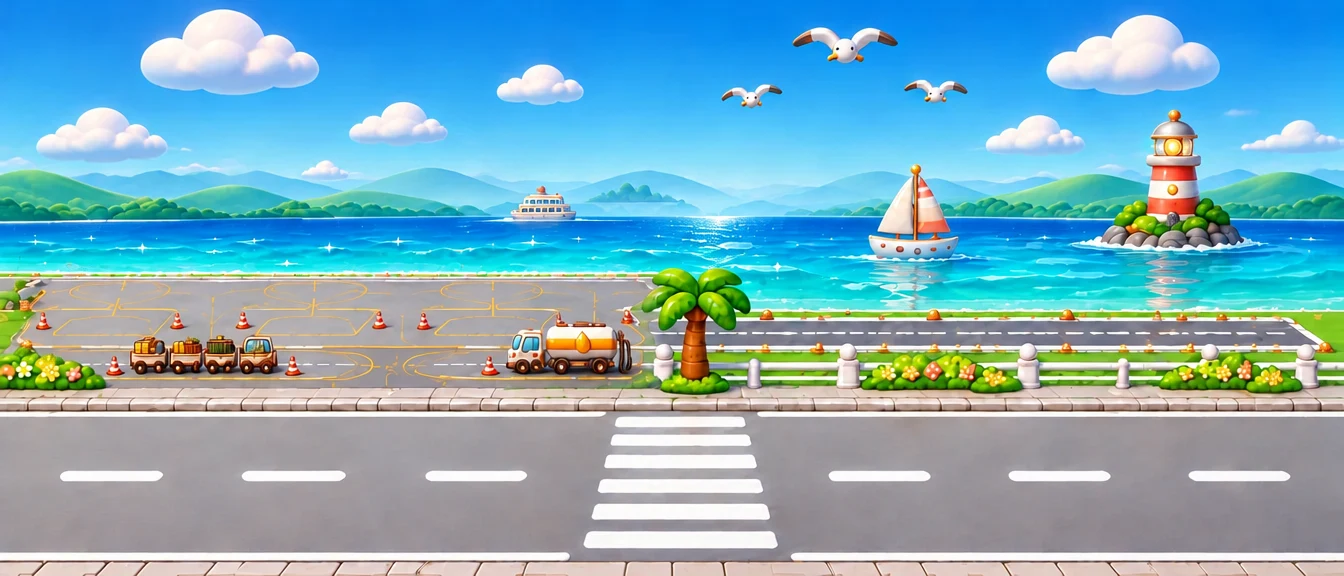
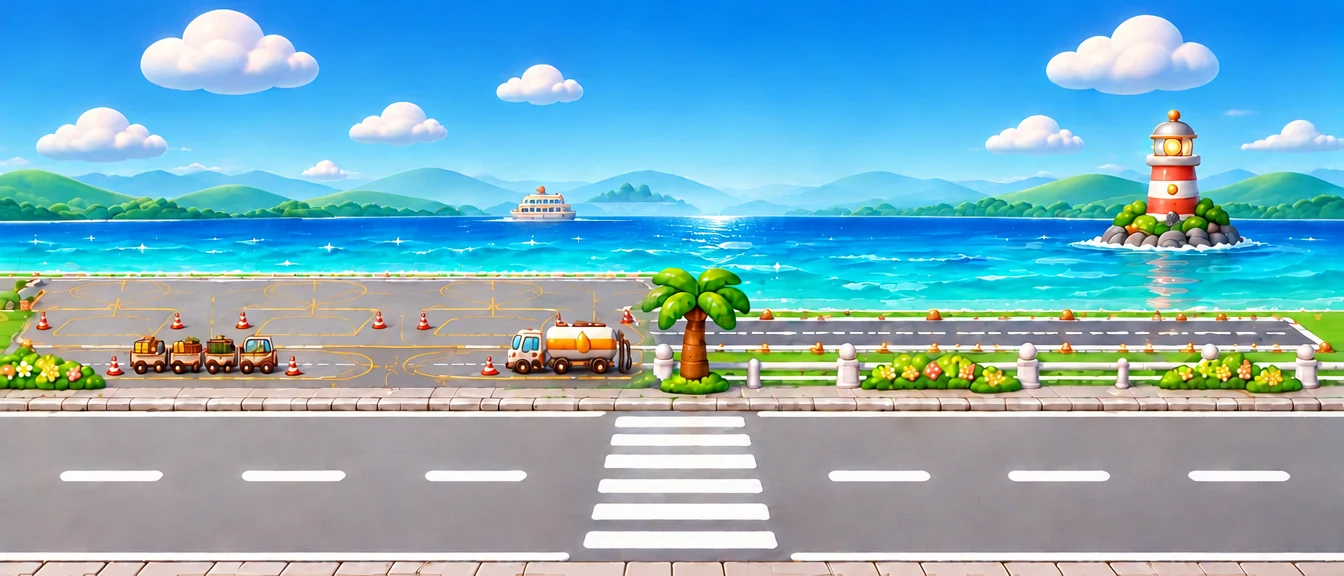
카피공항 예시판: 갈매기 제거, 돛단배 둥둥, 좌석에 앉은 캐릭터, 말하기·A·B 버튼(A로 입장·구매·탑승), 탑승 뒤 활주로 이륙 → 하늘 비행 3분
Claude-Session: https://claude.ai/code/session_015t7mweLLBzEFYGgsGmysr6

diff --git a/js/airport.js b/js/airport.js
@@ -37,9 +37,9 @@ export function openAirport(o) {
   const outPlane = h('img', { class: 'ap-plane out', src: 'img/air/plane.webp?v=3', alt: '' });
   const parked = [0.035, 0.105].map(x => h('img', { class: 'ap-parked', src: 'img/air/plane.webp?v=3', alt: '', style: { left: W * x + 'px' } })); // 터미널 왼쪽 계류장: 두 대가 나란히
   const term = h('button', { class: 'ap-term', 'aria-label': '카피공항 들어가기', style: { left: TX + 'px', width: TWD + 'px' }, onClick: () => walkTo(doorX, goIn) }, h('img', { src: 'img/air/terminal.webp', alt: '' }), h('b', { class: 'ap-term-t' }, '카피공항'));
-  const front = h('img', { class: 'ap-front', src: 'img/air/front.webp', alt: '' }); // 활주로 앞 야자수·난간: 비행기보다 앞에 보이게
+  const front = h('img', { class: 'ap-front', src: 'img/air/front.webp?v=4', alt: '' }); // 활주로 앞 야자수·난간: 비행기보다 앞에 보이게
   const exitSign = h('button', { class: 'fm-exit', style: { left: W - Math.round(W * 0.13) + 'px' }, onClick: () => close() }, '놀이터로 →');
-  const outWorld = h('div', { class: 'fm-world ap-world', style: { width: W + 'px', height: H + 'px', backgroundImage: 'url(img/air/out.webp)' } }, h('div', { class: 'ap-runway' }, outPlane), ...parked, front, term, exitSign);
+  const outWorld = h('div', { class: 'fm-world ap-world', style: { width: W + 'px', height: H + 'px', backgroundImage: 'url(img/air/out.webp?v=4)' } }, h('div', { class: 'ap-runway' }, outPlane), h('img', { class: 'ap-boat', src: 'img/air/boat.webp?v=2', alt: '' }), ...parked, front, term, exitSign);
   // 안쪽
   const counter = h('button', { class: 'ap-counter', 'aria-label': '공항 카운터', onClick: () => walkTo(W * 0.13, openTicket) });
   const inAtt = h('img', { class: 'ap-crew in tap', src: 'img/air/att.webp', alt: '카피승무원', style: { left: W * 0.115 + 'px' }, onClick: () => walkTo(W * 0.13, openTicket) }), inPilot = h('img', { class: 'ap-crew in pl', src: 'img/air/pilot.webp', alt: '카피기장', style: { left: W * 0.392 + 'px' } }); // 기장: 카운터 옆 출입구(탑승구) 바로 곁
@@ -54,7 +54,11 @@ export function openAirport(o) {
   const enterBtn = h('button', { class: 'fm-enter', hidden: true, onClick: () => (!inside ? goIn() : atGate() ? board() : openTicket()) });
   const ud = { hidden: true }; // (예전 위아래 버튼 자리)
   const dpad = h('div', { class: 'dpad ap-dpad' }, [['U', '▲'], ['L', '◀'], ['D', '▼'], ['R', '▶']].map(([k, t]) => { const b = h('button', { class: 'dp ap-dp ap-' + k, 'aria-label': { L: '왼쪽', R: '오른쪽', U: '위', D: '아래' }[k] }, t); holdBtn(b, () => { keys.add(k); b.classList.add('held'); }, () => { keys.delete(k); b.classList.remove('held'); }); return b; })); // 동물친목회와 같은 십자 방향키
-  const scene = h('div', { class: 'fm-scene' }, scroller, h('div', { class: 'fm-pad ap-pad' }, dpad, enterBtn));
+  // 오른쪽 버튼: 놀이터와 같은 말하기·A·B. A = 지금 할 수 있는 일(입장·구매·탑승), B = 나가기
+  const aLab = h('small', null, '입장'), aBtn = h('button', { class: 'ap-ab ap-a', disabled: true, 'aria-label': 'A', onClick: () => { sfx('keyA'); enterBtn.click(); } }, aLab);
+  const bBtn = h('button', { class: 'ap-ab ap-b', 'aria-label': 'B', onClick: () => { sfx('keyB'); inside ? goOut() : close(); } }, h('small', null, '나가기'));
+  const chatBtn = h('button', { class: 'ap-chat', 'aria-label': '말하기', onClick: () => { sfx('keyC'); if (inside) { const f = flightNow(now(), F); say('cnt', f); say('pl', f); say('wk', f); } else toast('바닷바람이 시원해요 🌊', 1200); } });
+  const scene = h('div', { class: 'fm-scene' }, scroller, h('div', { class: 'fm-pad ap-pad' }, dpad, h('div', { class: 'ap-acts' }, chatBtn, bBtn, aBtn)));
   const title = h('b', null, '✈ 카피공항'), flightEl = h('span', { class: 'ap-flight' });
   const wrap = h('div', { class: 'fm ap' }, h('div', { class: 'fm-top' }, title, flightEl, h('button', { class: 'top-x', 'aria-label': '닫기', onClick: () => close() }, '✕')), scene);
   document.body.append(wrap);
@@ -98,9 +102,17 @@ export function openAirport(o) {
     for (const k in says) { if (sayT[k] > 0 && (sayT[k] -= dt) <= 0) says[k].hidden = true; if (!says[k].hidden) { const e = npc[k]; says[k].style.left = e.style.left; says[k].style.bottom = `calc(${getComputedStyle(e).bottom} + ${e.offsetHeight * (k === 'wk' ? 1 - wk.y * 0.12 : 1) + 4}px)`; } } }
   // 탑승: 바닷가 활주로 시작점에 선 비행기에 내 카피바라가 앉아 → 쪽을 본다
   function ride() { const cap = h('div', { class: 'ap-ride-me', html: capy(ctx.capyOf(ctx.uid, { face: 'happy' })) });
-    const el = h('div', { class: 'ap-ride' }, h('div', { class: 'ap-ride-rig' }, cap, h('img', { class: 'ap-ride-pl', src: 'img/air/plane.webp?v=3', alt: '' }), h('img', { class: 'ap-ride-hull', src: 'img/air/plane-hull.webp?v=3', alt: '' })),
-      h('div', { class: 'ap-ride-t' }, h('b', null, `✈ ${DEST}행 탑승 완료!`), h('small', null, `${DEST}는 지금 한창 공사 중이에요 🚧 · 곧 날아갈 수 있어요`), h('button', { class: 'btn primary', onClick: () => { sfx('pop'); el.remove(); } }, '내리기')));
-    wrap.append(el); }
+    const rig = h('div', { class: 'ap-ride-rig go' }, h('img', { class: 'ap-ride-pl', src: 'img/air/plane.webp?v=3', alt: '' }), cap, h('img', { class: 'ap-ride-hull', src: 'img/air/plane-hull.webp?v=3', alt: '' }));
+    const msg = h('b'), sub = h('small'), offBtn = h('button', { class: 'btn sm', onClick: () => end() }, demo ? '내리기 (예시판)' : '내리기'), box = h('div', { class: 'ap-ride-t' }, msg, sub, demo && offBtn);
+    const sky = h('div', { class: 'ap-sky', hidden: true }, ...Array.from({ length: 9 }, (_, i) => h('i', { class: 'ap-cloud', style: { top: 6 + i * 10 + (i % 3) * 3 + '%', width: 70 + (i * 37) % 90 + 'px', animationDuration: 1.1 + (i * 0.37) % 1.4 + 's', animationDelay: -(i * 0.53) + 's', opacity: 0.55 + (i % 4) * 0.12 } })));
+    const el = h('div', { class: 'ap-ride' }, sky, rig, box); let timer = 0, t0 = 0; const FLY = 180000;
+    const end = () => { clearInterval(timer); el.remove(); };
+    msg.textContent = `✈ ${DEST}행 출발!`; sub.textContent = '활주로를 달려요…'; wrap.append(el); sfx('pop');
+    // 1) 활주로를 달리다 떠올라 화면 밖으로 → 2) 하늘: 위아래로 흔들리며 구름이 빠르게 스친다(3분)
+    setTimeout(() => { if (!el.isConnected) return; el.classList.add('fly'); sky.hidden = false; rig.classList.remove('go'); rig.classList.add('air'); t0 = Date.now();
+      const tick = () => { const left = FLY - (Date.now() - t0); if (left <= 0) { clearInterval(timer); msg.textContent = `🛬 ${DEST} 공항이 보여요!`; sub.textContent = `${DEST} 공항은 지금 공사 중이에요 🚧 · 곧 내릴 수 있어요`; if (!offBtn.isConnected) box.append(offBtn); offBtn.textContent = '카피공항으로 돌아가기'; return; }
+        msg.textContent = `✈ ${DEST}로 가는 중`; sub.textContent = `도착까지 ${mmss(left)}`; };
+      tick(); timer = setInterval(tick, 500); }, 6200); }
   let lastT = performance.now(), tick = 0;
   // 바깥 비행기(25초마다): 4초 동안 내려앉고 → 10초 동안 왼쪽으로 천천히 굴러 터미널 뒤로 들어가고 → 3초 뒤 → 8초 동안 터미널 뒤에서 나와 오른쪽(→)으로 달려 떠오른다
   function drawOut(t) { const k = t % 25000, el = outPlane; let x, y = 0, r = 0, flip = 0;
@@ -121,7 +133,7 @@ export function openAirport(o) {
     meEl.style.left = me.x + 'px'; meEl.style.bottom = `${1 + me.y * (inside ? 22 : 16)}%`; meEl.style.transform = `translateX(-50%) scale(${(1 - me.y * 0.14).toFixed(3)})`; meEl.style.zIndex = String(6 - Math.round(me.y * 3)); // 도로·실내 모두 위아래로도 걷는다
     const want = me.x - scroller.clientWidth / 2; if (Math.abs(scroller.scrollLeft - want) > 4 && (meEl.classList.contains('walk') || dir)) scroller.scrollLeft += (want - scroller.scrollLeft) * Math.min(1, dt * 6);
     const gate = atGate(), near = inside ? me.x < W * 0.24 || gate : Math.abs(me.x - doorX) < TWD * 0.55, lab = !inside ? '✈ 공항 들어가기' : gate ? '✈ 탑승하기' : '🎫 탑승권 사기';
-    if (enterBtn.hidden === near) enterBtn.hidden = !near; if (enterBtn.textContent !== lab) enterBtn.textContent = lab;
+    if (enterBtn.hidden === near) enterBtn.hidden = !near; if (enterBtn.textContent !== lab) enterBtn.textContent = lab; if (aBtn.disabled === near) { aBtn.disabled = !near; aBtn.classList.toggle('ready', near); } { const t = !inside ? '입장' : gate ? '탑승' : '탑승권'; if (aLab.textContent !== t) aLab.textContent = t; }
     const f = flightNow(now(), F); if (inside) drawPlane(inPlane, f, 0.2); else drawOut(now()); // 바깥: 내려앉아 터미널 뒤로 들어갔다가, 3초 뒤 다시 나와 오른쪽으로 떠나기를 되풀이
     if (inside) { if (wk.wait > 0) { wk.wait -= dt; walker.classList.remove('go'); if (wk.wait <= 0) { wk.tx = W * (0.07 + Math.random() * 0.87); wk.ty = Math.random(); } }
       else { const dx = wk.tx - wk.x, dy = wk.ty - wk.y, d = Math.hypot(dx, dy * 60); if (d < 3) wk.wait = 1 + Math.random() * 2.5; else { wk.x += dx / d * 42 * dt; wk.y += dy * 60 / d * 42 * dt / 60; if (Math.abs(dx) > 2) wk.d = Math.sign(dx); walker.classList.add('go'); } }

diff --git a/css/app.css b/css/app.css
@@ -3176,7 +3176,7 @@ img.kb-sic { width: 30px; height: 30px; object-fit: contain; display: block; mar
 .ap-ud { display: flex; flex-direction: column; gap: 4px; } .ap-ud[hidden] { display: none; }
 .fm-dp.ap-v { width: 46px; height: 40px; min-width: 0; font-size: 16px; padding: 0; }
 
-.ap-pad { align-items: center; justify-content: flex-start; gap: 18px; }
+.ap-pad { align-items: center; justify-content: space-between; gap: 8px; }
 .ap-dpad { width: 132px; height: 132px; gap: 0; display: grid; grid-template: "a U b" 1fr "L c R" 1fr "d D e" 1fr / 1fr 1fr 1fr; background: url(../img/fl/ui/dpad.webp) center / contain no-repeat; filter: drop-shadow(0 4px 3px rgba(110, 60, 20, .35)); opacity: 1; flex: none; }
 .ap-dpad .ap-dp { width: auto; height: auto; background: none; border: 0; box-shadow: none; border-radius: 12px; font-size: 0; padding: 0; }
 .ap-dpad .ap-U { grid-area: U; } .ap-dpad .ap-L { grid-area: L; } .ap-dpad .ap-R { grid-area: R; } .ap-dpad .ap-D { grid-area: D; }
@@ -3185,9 +3185,26 @@ img.kb-sic { width: 30px; height: 30px; object-fit: contain; display: block; mar
 .ap-say { position: absolute; z-index: 8; transform: translateX(-50%); background: #fffdf5; color: #5a3a1e; border: 2px solid #e0b252; border-radius: 12px; padding: 3px 8px; font: 800 11px/1.3 var(--head); white-space: nowrap; box-shadow: 0 2px 6px rgba(0,0,0,.2); pointer-events: none; }
 .ap-say[hidden] { display: none; } .ap-say.pop { animation: parkBub .3s ease-out; }
 .ap-say::after { content: ''; position: absolute; left: 50%; bottom: -7px; margin-left: -5px; border: 5px solid transparent; border-top: 6px solid #e0b252; border-bottom: 0; }
-.ap-ride { position: absolute; inset: 0; z-index: 50; background: #7fd0f0 url(../img/air/ride.webp) center / cover no-repeat; display: flex; flex-direction: column; align-items: center; justify-content: flex-end; overflow: hidden; animation: aqIn .5s ease-out; }
-.ap-ride-rig { position: absolute; left: 50%; top: 73%; width: min(78%, 420px); transform: translate(-50%, -100%); animation: apIdle 1.1s ease-in-out infinite; } @keyframes apIdle { 50% { translate: 0 -2px; } }
+.ap-ride { position: absolute; inset: 0; z-index: 50; background: #7fd0f0 url(../img/air/out.webp?v=4) 82% 50% / cover no-repeat; overflow: hidden; animation: aqIn .4s ease-out; }
+.ap-ride.fly { background: linear-gradient(#2f8fe0, #7cc8f5 55%, #cfeeff); }
+.ap-ride-rig { position: absolute; left: 0; top: 58.5%; width: min(60%, 300px); transform: translate(-50%, -100%); }
+.ap-ride-rig.go { animation: apRun 6.2s cubic-bezier(.45, 0, .9, .6) forwards; }
+@keyframes apRun { 0% { left: 18%; top: 58.5%; rotate: 0deg; } 8% { left: 18%; top: 58.5%; } 62% { left: 68%; top: 58.5%; rotate: 0deg; } 100% { left: 150%; top: 12%; rotate: -14deg; } }
+.ap-ride-rig.air { left: 50%; top: 56%; width: min(72%, 380px); animation: apAir 2.2s ease-in-out infinite; }
+@keyframes apAir { 0%, 100% { translate: 0 -14px; rotate: -3deg; } 50% { translate: 0 14px; rotate: 2deg; } }
 .ap-ride-pl, .ap-ride-hull { display: block; width: 100%; transform: scaleX(-1); } .ap-ride-hull { position: absolute; left: 0; top: 0; }
-.ap-ride-me { position: absolute; left: 47%; top: -9%; width: 30%; transform: translateX(-50%); } .ap-ride-me svg { width: 100%; display: block; transform: scaleX(-1); }
-.ap-ride-t { position: relative; margin: 0 12px 14px; padding: 10px 14px; border-radius: 16px; background: rgba(255, 250, 240, .94); border: 2px solid #9CC6EE; text-align: center; display: flex; flex-direction: column; gap: 6px; align-items: center; }
+.ap-ride-me { position: absolute; left: 47.5%; top: -3%; width: 27%; transform: translateX(-50%); } .ap-ride-me svg { width: 100%; display: block; transform: scaleX(-1); }
+.ap-sky { position: absolute; inset: 0; } .ap-sky[hidden] { display: none; }
+.ap-cloud { position: absolute; left: 0; height: 26px; border-radius: 30px; background: #fff; box-shadow: 18px -10px 0 2px #fff, 44px -4px 0 -2px #fff; filter: blur(.5px); animation: apCloud 1.4s linear infinite; }
+@keyframes apCloud { from { transform: translateX(110vw); } to { transform: translateX(-260px); } }
+.ap-ride-t { position: absolute; left: 12px; right: 12px; bottom: 14px; padding: 10px 14px; border-radius: 16px; background: rgba(255, 250, 240, .94); border: 2px solid #9CC6EE; text-align: center; display: flex; flex-direction: column; gap: 6px; align-items: center; }
 .ap-ride-t b { font: 900 16px/1.2 var(--head); color: #2F6FA8; } .ap-ride-t small { font-size: 12px; color: #6a7f95; }
+
+.ap-acts { position: relative; display: flex; flex-direction: row; gap: 2px; align-items: flex-end; margin-right: 4px; }
+.ap-ab { position: relative; width: 74px; height: 74px; border-radius: 50%; border: 0; padding: 0; background: url(../img/fl/ui/btn-b.webp) center / contain no-repeat; filter: drop-shadow(0 4px 3px rgba(60, 60, 20, .35)); }
+.ap-ab.ap-a { background-image: url(../img/fl/ui/btn-a.webp); margin-bottom: 46px; }
+.ap-ab small { position: absolute; left: 50%; top: 100%; translate: -50% -2px; white-space: nowrap; font: 800 11px/1.3 var(--head); color: #6B3F1D; background: #FBEBD0; border-radius: 999px; padding: 1px 8px; box-shadow: 0 1px 0 #DDBB8A; }
+.ap-ab:active { transform: translateY(3px); filter: brightness(.93); } .ap-ab:disabled { opacity: .55; }
+.ap-ab.ready { animation: flReady .8s ease-in-out infinite alternate; }
+.ap-chat { position: absolute; right: 88px; top: -6px; width: 54px; height: 53px; border: 0; padding: 0; background: url(../img/fl/ui/chat.webp) center / contain no-repeat; filter: drop-shadow(0 3px 2px rgba(110, 60, 20, .3)); } .ap-chat:active { transform: translateY(2px); }
+.ap-boat { position: absolute; left: 64.5%; top: 26%; width: 5.2%; z-index: 0; pointer-events: none; animation: apFloat 3.2s ease-in-out infinite; transform-origin: 50% 90%; } @keyframes apFloat { 0%, 100% { translate: 0 0; rotate: -2.5deg; } 50% { translate: 0 -4px; rotate: 2.5deg; } }
